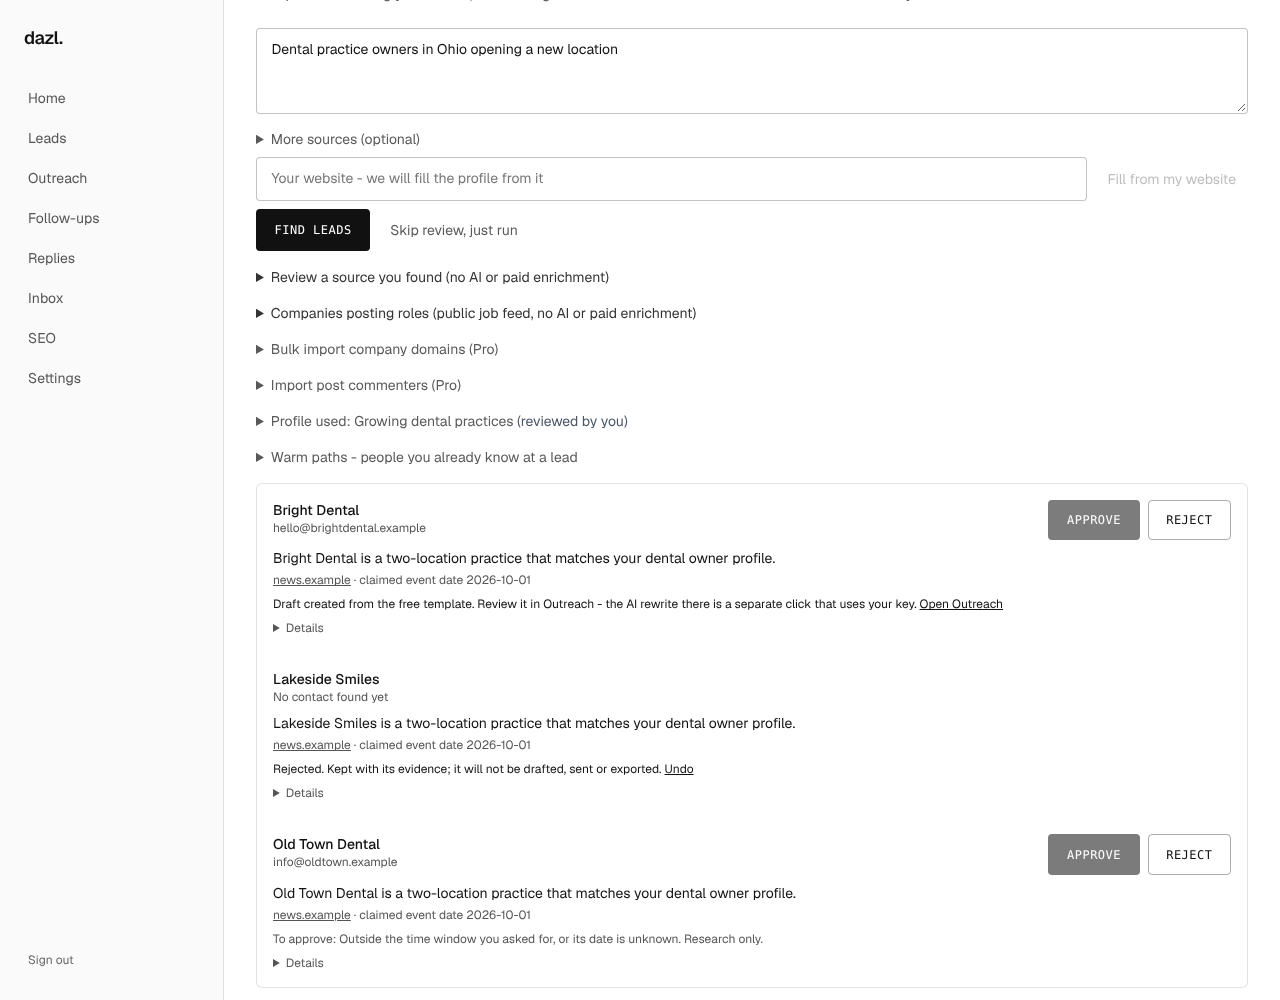
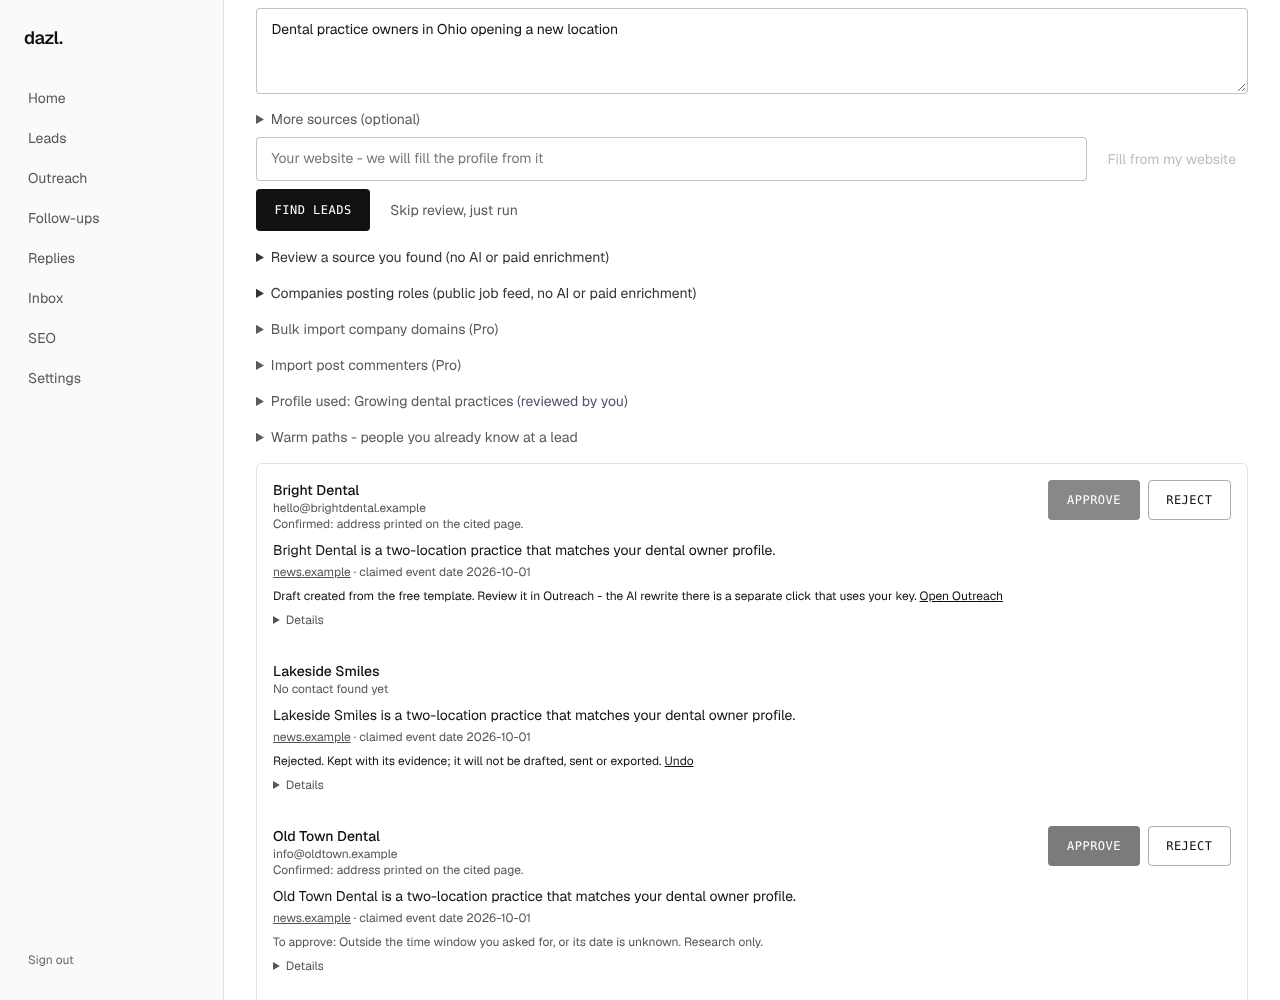
Lead cards: contact identity and role caveats stay visible beside the contact
Instinct's review of b904783: the compact card showed "Dana Smith, Practice
owner - hello@name-guessed.example" with the identity caveats only in Details.

- contactIdentity() in lib/scan/opportunity.ts: the same identity facts the
  opportunity card already uses (identityOf, the cited-email rule,
  domainReviewFor) reduced to a state + one line. Only the cited page, the
  company's own page or the user's own website check count as established.
- The card shows a status line under the contact on the collapsed card:
  "Unconfirmed - name match only: <site>: <basis>", conflicting websites,
  "Restricted inbox (...): not a sales contact", "Role as listed; current role
  not verified", past/assistant-title people, quarantined -> "do not contact".
  Anything unconfirmed is bold with a rule; confirmed reads "Confirmed: ...".
- Approve (and the Details draft button) is guarded in flight: a double click
  against a slow server sends one request; after a failure it can be retried.
- No gate, API or schema change; drafting stays blocked as before.

Tests: lead-card unit tests for Instinct's name_probe repro, conflicting
domains, past-title people, restricted inbox, quarantined, cited. UI check adds
those fixtures on the collapsed card, an 800 ms double click (1 request) and a
failure then retry.

Claude-Session: https://claude.ai/code/session_01CafonXdzjwkFYiMRJWtsKo

diff --git a/web/app/app/leads/leads-client.tsx b/web/app/app/leads/leads-client.tsx
@@ -239,8 +239,17 @@ export default function LeadsClient() {
   }
   // Approve on the card = the existing Draft email action: it creates a draft for review in Outreach and never sends.
   // The server (createDraft) re-checks every identity, quote, date and contact gate.
-  const approveLead = (leadId: string) => makeDraft(leadId)
-  async function makeDraft(leadId: string) {
+  // In flight: one request per click burst; after a failure the button comes back so the user can retry.
+  const [approving, setApproving] = useState<Record<string, boolean>>({})
+  const [approved, setApproved] = useState<Record<string, boolean>>({})
+  const approvingRef = useRef<Set<string>>(new Set())
+  async function approveLead(leadId: string) {
+    if (approvingRef.current.has(leadId)) return
+    approvingRef.current.add(leadId); setApproving(a => ({ ...a, [leadId]: true }))
+    try { if (await makeDraft(leadId)) setApproved(a => ({ ...a, [leadId]: true })) }
+    finally { approvingRef.current.delete(leadId); setApproving(a => ({ ...a, [leadId]: false })) }
+  }
+  async function makeDraft(leadId: string): Promise<boolean> {
     // Network failure or a non-JSON body (proxy page, server error) must still show a message, never an unhandled rejection.
     let ok = false
     let message = 'Could not create the draft'
@@ -251,6 +260,7 @@ export default function LeadsClient() {
       if (!ok && typeof j?.error === 'string' && j.error) message = j.error
     } catch { /* offline or aborted: keep the fixed message */ }
     setDrafted(d => ({ ...d, [leadId]: ok ? 'Draft created from the free template. Review it in Outreach - the AI rewrite there is a separate click that uses your key.' : message }))
+    return ok
   }
 
   async function preview(e: React.FormEvent) {
@@ -641,9 +651,10 @@ export default function LeadsClient() {
                   <div className="min-w-0">
                     <div className="font-medium">{l.company_domain ? <a className="underline decoration-black/30" href={`https://${l.company_domain}`} target="_blank" rel="noopener noreferrer nofollow">{c.company}</a> : c.company}{!!l.watch_new && <span className="ml-2 text-[10px] uppercase tracking-wide text-[#111] border border-black/30 px-1 py-0.5">new</span>}</div>
                     <div className="text-[#555] text-xs">{c.contact ?? 'No contact found yet'}</div>
+                    {c.contactStatus && <div data-testid="contact-status" className={`text-xs ${c.contactStatus.confirmed ? 'text-[#555]' : 'text-[#111] font-medium border-l-2 border-black pl-2 mt-0.5'}`}>{c.contactStatus.text}</div>}
                   </div>
                   {!l.quarantined_at && <div className="flex gap-2 shrink-0">
-                    <button onClick={() => approveLead(l.id)} disabled={!c.approve.ok || !!drafted[l.id]} title={c.approve.ok ? 'Creates a draft for you to review in Outreach. Nothing is sent.' : c.approve.reason} className="btn-primary text-xs px-3 py-1.5">Approve</button>
+                    <button onClick={() => approveLead(l.id)} disabled={!c.approve.ok || !!approving[l.id] || !!approved[l.id]} title={c.approve.ok ? 'Creates a draft for you to review in Outreach. Nothing is sent.' : c.approve.reason} className="btn-primary text-xs px-3 py-1.5">Approve</button>
                     <button onClick={() => quarantine(l.id, false, REJECT_REASON)} className="btn-ghost text-xs px-3 py-1.5">Reject</button>
                   </div>}
                 </div>
@@ -777,7 +788,7 @@ export default function LeadsClient() {
                 {draftTo && domainReviewFor(l, l.enrichments).state !== 'required' && (l.confidence !== null || l.human_confirmed_at !== null) && !(l.fit === 0 && l.intent === null) && (
                   drafted[l.id]
                     ? <span className="text-gray-400 text-xs ml-3">{drafted[l.id]}</span>
-                    : l.currentness_held ? <button onClick={()=>confirmReview(l.id)} className="font-mono text-xs border border-black px-2 py-1">I reviewed the source - use for drafting (not consent)</button> : <button onClick={() => makeDraft(l.id)} className="font-mono text-xs uppercase border border-black px-2 py-1 ml-3 hover:bg-black hover:text-white">Draft email</button>)}
+                    : l.currentness_held ? <button onClick={()=>confirmReview(l.id)} className="font-mono text-xs border border-black px-2 py-1">I reviewed the source - use for drafting (not consent)</button> : <button onClick={() => void approveLead(l.id)} className="font-mono text-xs uppercase border border-black px-2 py-1 ml-3 hover:bg-black hover:text-white">Draft email</button>)}
               </>
             })()}
             {crmOn && (pushed[l.id]

diff --git a/web/lib/scan/lead-card.ts b/web/lib/scan/lead-card.ts
@@ -3,8 +3,8 @@
 // "Approve" creates a draft for review (POST /api/outreach), which never sends; createDraft re-checks every gate on the
 // server. approveState mirrors the conditions under which the existing "Draft email" button appears, plus the window
 // and timing holds, so the card never offers an action the server would refuse for those reasons.
-import { opportunityCard, type CardLead } from './opportunity.ts'
-import { publishedEmail } from '../outreach/published-email.ts'
+import { contactIdentity, opportunityCard, type CardLead } from './opportunity.ts'
+import { publishedContact, publishedEmail } from '../outreach/published-email.ts'
 import { domainReviewFor } from '../outreach/domain-review.ts'
 
 export type ApproveState = { ok: true } | { ok: false; reason: string }
@@ -12,6 +12,9 @@ export type ApproveState = { ok: true } | { ok: false; reason: string }
 export interface LeadCardSummary {
   company: string
   contact: string | null
+  // Shown beside the contact, never only in Details: how far it is established. `confirmed` is true only for the cited
+  // page, the company's own page, or the user's own website check, with no restricted inbox or quarantine.
+  contactStatus: { confirmed: boolean; text: string } | null
   why: string
   sourceUrl: string
   sourceHost: string
@@ -41,11 +44,13 @@ export function leadCardSummary(l: CardLead & { name?: string }, buyerRoles = ''
   const card = opportunityCard(l, buyerRoles)
   const email = publishedEmail(l)
   const contact = card.who ? `${card.who.name}${card.who.title ? `, ${card.who.title}` : ''}${email ? ` - ${email}` : ''}` : email ?? (l.contact?.trim() || null)
+  const contactStatus = contact ? statusOf(l, !!card.who) : null
   let sourceHost = l.source_url
   try { sourceHost = new URL(l.source_url).hostname.replace(/^www\./, '') } catch { /* keep the raw value */ }
   return {
     company: l.company || l.name || 'Unnamed company',
     contact,
+    contactStatus,
     // The research rationale when there is one, else the saved signal claim itself. One line, never invented.
     why: firstSentence(l.why?.trim() || l.signal),
     sourceUrl: l.source_url,
@@ -53,4 +58,19 @@ export function leadCardSummary(l: CardLead & { name?: string }, buyerRoles = ''
     date: l.event_date ? `claimed event date ${l.event_date}` : 'event date unknown',
     approve: approveState(l),
   }
+}
+
+function statusOf(l: CardLead, personShown: boolean): { confirmed: boolean; text: string } {
+  if (l.quarantined_at) return { confirmed: false, text: 'Quarantined or rejected: do not contact.' }
+  const rows = l.enrichments ?? []
+  const notes: string[] = []
+  const pc = publishedContact({ contact: l.contact, source_url: l.source_url, evidence_excerpt: l.evidence_excerpt, enrichments: rows })
+  if (pc?.purpose === 'non-sales') notes.push(`Restricted inbox (${pc.purposeHint ?? 'not for sales'}): not a sales contact.`)
+  const id = contactIdentity(l)
+  const established = id.state === 'cited' || id.state === 'fact' || id.state === 'user_confirmed'
+  if (!established) notes.unshift(`Unconfirmed - ${id.state === 'none' ? id.text : `name match only: ${id.text}`}.`)
+  if (personShown) notes.push('Role as listed; current role not verified.')
+  else if (rows.some(r => r.kind === 'contact' || r.kind === 'person')) notes.push('Listed people have past, negated or assistant titles; no current buyer named.')
+  const confirmed = established && pc?.purpose !== 'non-sales'
+  return { confirmed, text: confirmed ? [`Confirmed: ${id.text}.`, ...notes].join(' ') : notes.join(' ') }
 }

diff --git a/web/test/lead-card.test.ts b/web/test/lead-card.test.ts
@@ -40,3 +40,47 @@ test('Approve is offered only when every existing draft condition holds', () => 
   assert.match(blocked({ currentness_held: true })!, /timing is unknown/)
   assert.equal(blocked({ confidence: null, human_confirmed_at: 1700000000 }), null, 'a lead you confirmed can be approved')
 })
+
+// Instinct #231: the compact card must never present an unconfirmed contact as the company's established contact.
+type Row = NonNullable<CardLead['enrichments']>[number]
+const dom = (site: string, token: string, url = 'https://news.example/bright'): Row => ({ connector: 'sitecrawl', kind: 'domain', value: `${site}|${token}`, label: `domain-basis-v1:${token}`, source_url: url })
+const dana: Row = { connector: 'sitecrawl', kind: 'person', value: 'Dana Smith, Practice owner', label: 'x', source_url: 'https://name-guessed.example/team' }
+const crawled = (e: string): Row => ({ connector: 'sitecrawl', kind: 'email', value: e, label: null, source_url: 'https://name-guessed.example/contact' })
+const status = (over: Partial<CardLead>) => leadCardSummary({ ...base, ...over }, 'Practice owner').contactStatus
+
+test("Instinct's repro: name-guessed website, crawled address and a listed person read as unconfirmed beside the contact", () => {
+  const s = leadCardSummary({ ...base, contact: 'hello@name-guessed.example', company_domain: null, enrichments: [dom('name-guessed.example', 'name_probe', 'https://name-guessed.example/'), crawled('hello@name-guessed.example'), dana] }, 'Practice owner')
+  assert.match(s.contact!, /Dana Smith, Practice owner/)
+  assert.equal(s.contactStatus!.confirmed, false)
+  assert.match(s.contactStatus!.text, /^Unconfirmed - name match only: name-guessed\.example: found by name search, not linked from the source\./)
+  assert.match(s.contactStatus!.text, /Role as listed; current role not verified\./)
+  assert.equal(s.approve.ok, false, 'drafting stays blocked')
+})
+
+test('conflicting websites: unconfirmed, names the competing sites', () => {
+  const st = status({ contact: 'hello@a-dental.example', enrichments: [dom('a-dental.example', 'name_probe'), dom('b-dental.example', 'evidence_link_domain_label'), crawled('hello@a-dental.example')] })!
+  assert.equal(st.confirmed, false)
+  assert.match(st.text, /several websites recorded \(a-dental\.example, b-dental\.example\); which one is theirs is not settled/)
+})
+
+test('people with past or assistant titles are not shown as the buyer', () => {
+  const former: Row = { ...dana, value: 'Pat Lee, Former practice owner' }
+  const s = leadCardSummary({ ...base, enrichments: [dom('brightdental.example', 'evidence_own_domain', base.source_url), former] }, 'Practice owner')
+  assert.doesNotMatch(s.contact!, /Pat Lee/)
+  assert.match(s.contactStatus!.text, /Listed people have past, negated or assistant titles; no current buyer named\./)
+})
+
+test('a restricted-purpose inbox is labelled, never treated as a sales contact', () => {
+  const st = status({ contact: 'privacy@brightdental.example' })!
+  assert.equal(st.confirmed, false)
+  assert.match(st.text, /Restricted inbox \(privacy\): not a sales contact\./)
+})
+
+test('quarantined: never reads as an established contact', () => {
+  assert.deepEqual(status({ quarantined_at: 1 }), { confirmed: false, text: 'Quarantined or rejected: do not contact.' })
+})
+
+test('address printed on the cited page reads as confirmed, with its basis', () => {
+  assert.deepEqual(status({}), { confirmed: true, text: 'Confirmed: address printed on the cited page.' })
+  assert.equal(status({ contact: null }), null)
+})

diff --git a/web/lib/scan/opportunity.ts b/web/lib/scan/opportunity.ts
@@ -60,6 +60,23 @@ function identityOf(l: CardLead, rows: NonNullable<CardLead['enrichments']>): Id
   return { text: `${site}: ${BASIS_TEXT[b.kind]}`, state: 'unconfirmed', site }
 }
 
+// How far the card's contact is established, for the compact lead card: the same identity facts the opportunity card
+// uses (identityOf, the cited-email rule, domainReviewFor), reduced to a state and one plain line. Nothing is upgraded:
+// anything short of the cited page, the site's own page, or the user's own website check reads as unconfirmed.
+export type ContactIdentity = { state: 'cited' | 'fact' | 'user_confirmed' | 'unconfirmed' | 'conflict' | 'none'; text: string }
+export function contactIdentity(l: CardLead): ContactIdentity {
+  const rows = l.enrichments ?? []
+  const ident = identityOf(l, rows)
+  const pc = publishedContact({ contact: l.contact, source_url: l.source_url, evidence_excerpt: l.evidence_excerpt, enrichments: rows })
+  const review = domainReviewFor({ id: l.id ?? '', contact: l.contact }, rows)
+  if (PUBLISHED_EMAIL_RE.test((l.contact ?? '').trim().toLowerCase()) && pc?.source === 'lead' && review.state !== 'required') return { state: 'cited', text: 'address printed on the cited page' }
+  if (ident?.state === 'conflict') return { state: 'conflict', text: ident.text }
+  if (!ident) return { state: 'none', text: "the company's own website was not identified" }
+  if (ident.state === 'user_confirmed') return { state: 'user_confirmed', text: ident.text }
+  if (ident.state === 'fact' && review.state !== 'required') return { state: 'fact', text: ident.text }
+  return { state: 'unconfirmed', text: review.state === 'required' && ident.state === 'fact' ? `${ident.site}: you have not confirmed this website` : ident.text }
+}
+
 export function opportunityCard(l: CardLead, buyerRoles = '', now: Date = new Date()): OpportunityCard {
   const rows = l.enrichments ?? []
   const match = parseMatch(l.icp_match)
